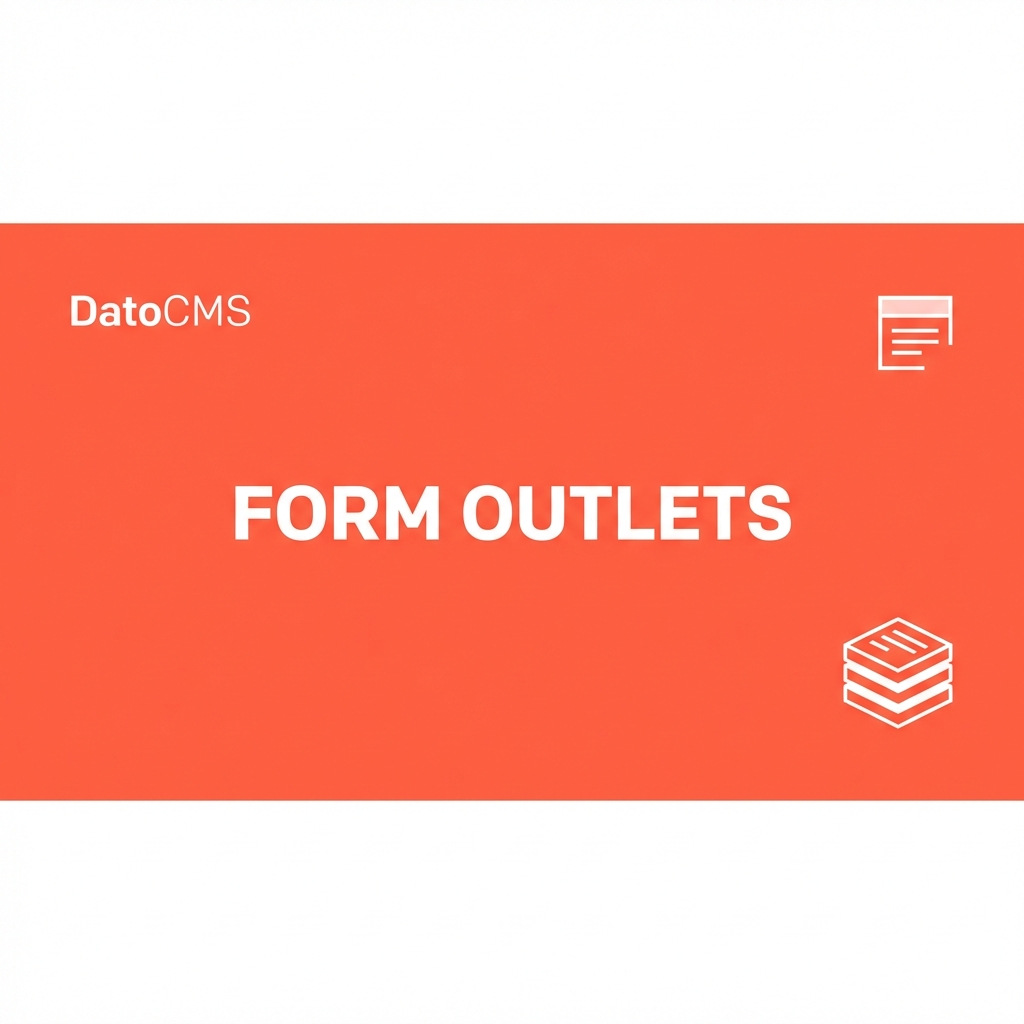
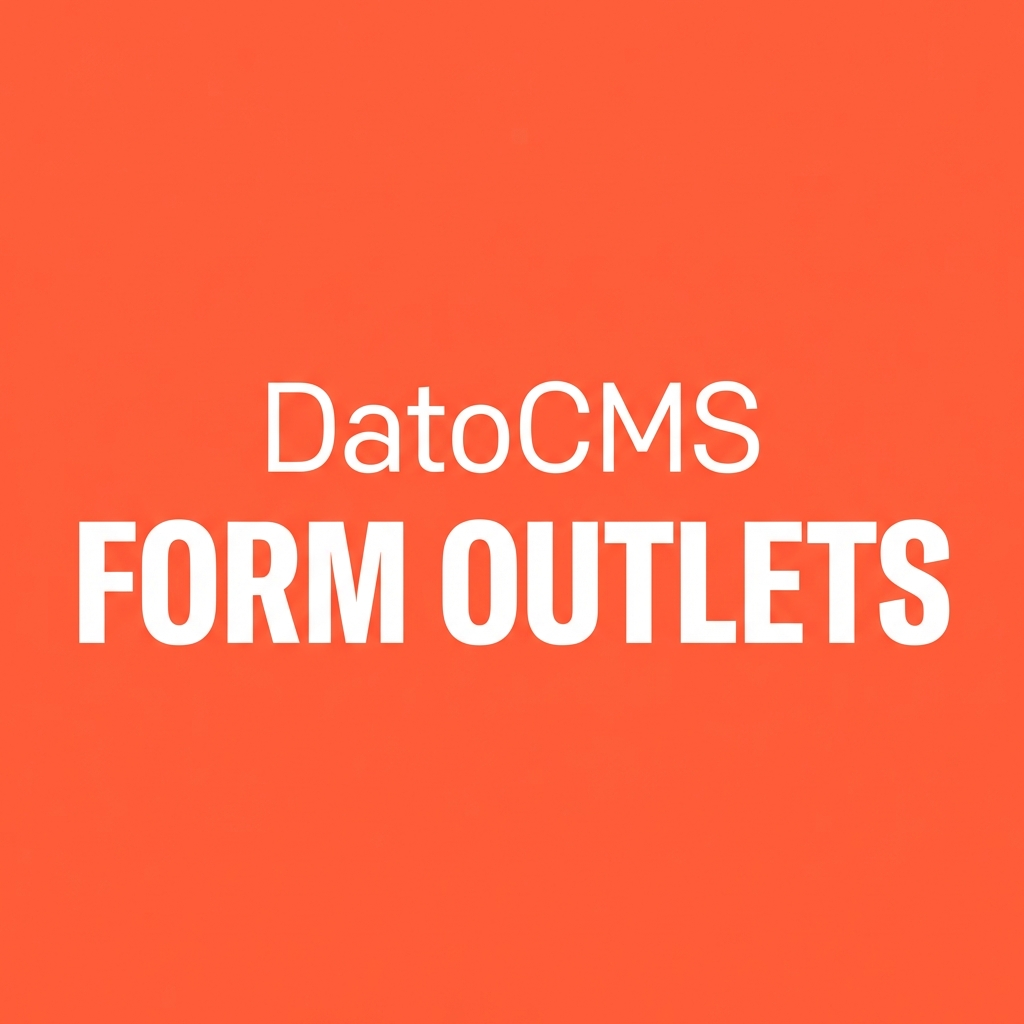
fix: scroll-to-top on work page navigation, consistent branded images, scroll test

diff --git a/tests/scroll-navigation.spec.ts b/tests/scroll-navigation.spec.ts
@@ -1,0 +1,86 @@
+import { test, expect } from '@playwright/test';
+
+/**
+ * Tests for scroll position on navigation
+ * Ensures fresh navigation to work page scrolls to top
+ */
+
+test.describe('Scroll Position on Navigation', () => {
+  test('navigating from home to /work via View All Work scrolls to top', async ({ page }) => {
+    // Go to home page
+    await page.goto('/');
+    await page.waitForLoadState('networkidle');
+    
+    // Scroll down on home page to simulate user interaction
+    await page.evaluate(() => window.scrollTo(0, 500));
+    await page.waitForTimeout(100);
+    
+    // Click "View All Work" button
+    const viewAllWork = page.getByRole('link', { name: /view all work/i });
+    await expect(viewAllWork).toBeVisible();
+    await viewAllWork.click();
+    
+    // Wait for navigation to complete
+    await page.waitForURL('/work');
+    await page.waitForLoadState('networkidle');
+    await page.waitForTimeout(500); // Allow view transitions to complete
+    
+    // Check scroll position - should be at or near top
+    const scrollY = await page.evaluate(() => window.scrollY);
+    expect(scrollY).toBeLessThan(100); // Allow small tolerance for navbar height
+  });
+
+  test('navigating from navbar to /work scrolls to top', async ({ page }) => {
+    // Go to approach page first
+    await page.goto('/approach');
+    await page.waitForLoadState('networkidle');
+    
+    // Scroll down
+    await page.evaluate(() => window.scrollTo(0, 300));
+    await page.waitForTimeout(100);
+    
+    // Click Work in navbar
+    const navWork = page.locator('.navbar').getByRole('link', { name: /work/i });
+    await expect(navWork).toBeVisible();
+    await navWork.click();
+    
+    // Wait for navigation
+    await page.waitForURL('/work');
+    await page.waitForLoadState('networkidle');
+    await page.waitForTimeout(500);
+    
+    // Check scroll position
+    const scrollY = await page.evaluate(() => window.scrollY);
+    expect(scrollY).toBeLessThan(100);
+  });
+
+  test('back navigation from work detail restores scroll position', async ({ page }) => {
+    // Go to work page
+    await page.goto('/work');
+    await page.waitForLoadState('networkidle');
+    
+    // Scroll to a card lower on the page
+    await page.evaluate(() => window.scrollTo(0, 400));
+    await page.waitForTimeout(200);
+    
+    // Click on a work card
+    const firstCard = page.locator('[data-work-card]').first();
+    await expect(firstCard).toBeVisible();
+    await firstCard.click();
+    
+    // Wait for detail page
+    await page.waitForURL(/\/work\/.+/);
+    await page.waitForLoadState('networkidle');
+    
+    // Go back
+    await page.goBack();
+    await page.waitForURL('/work');
+    await page.waitForLoadState('networkidle');
+    await page.waitForTimeout(500);
+    
+    // Scroll should be restored near the card (not at top, not at bottom)
+    const scrollY = await page.evaluate(() => window.scrollY);
+    // Should have some scroll position (restored) but not at very bottom
+    expect(scrollY).toBeGreaterThan(50);
+  });
+});

diff --git a/src/scripts/view-transitions.js b/src/scripts/view-transitions.js
@@ -215,11 +215,14 @@ function setupViewTransitionHandlers() {
 			// Store current path for next navigation
 			sessionStorage.setItem("prevPath", pathname);
 			
-			// ONLY manually scroll when returning from a work detail page to a listing
-			// This restores the user's position to the card they clicked
-			// All other cases: let the browser handle default scroll behavior
-			if (isWorkListingPage && isFromWorkDetail) {
-				handleScrollToCard();
+			if (isWorkListingPage) {
+				if (isFromWorkDetail) {
+					// Returning from work detail - restore scroll to the card
+					handleScrollToCard();
+				} else {
+					// Fresh navigation to work page - scroll to top
+					window.scrollTo(0, 0);
+				}
 			}
 			
 			// Clean up transition names after transition completes

diff --git a/src/styles/global.css b/src/styles/global.css
@@ -1187,12 +1187,12 @@
             position: absolute;
             left: 0;
             top: 0;
-            width: 1.75rem;
-            height: 1.75rem;
+            width: 1.5rem;
+            height: 1.5rem;
             background-color: var(--color-primary);
             color: white;
             font-weight: 700;
-            font-size: 0.875rem;
+            font-size: 0.8rem;
             display: flex;
             align-items: center;
             justify-content: center;
